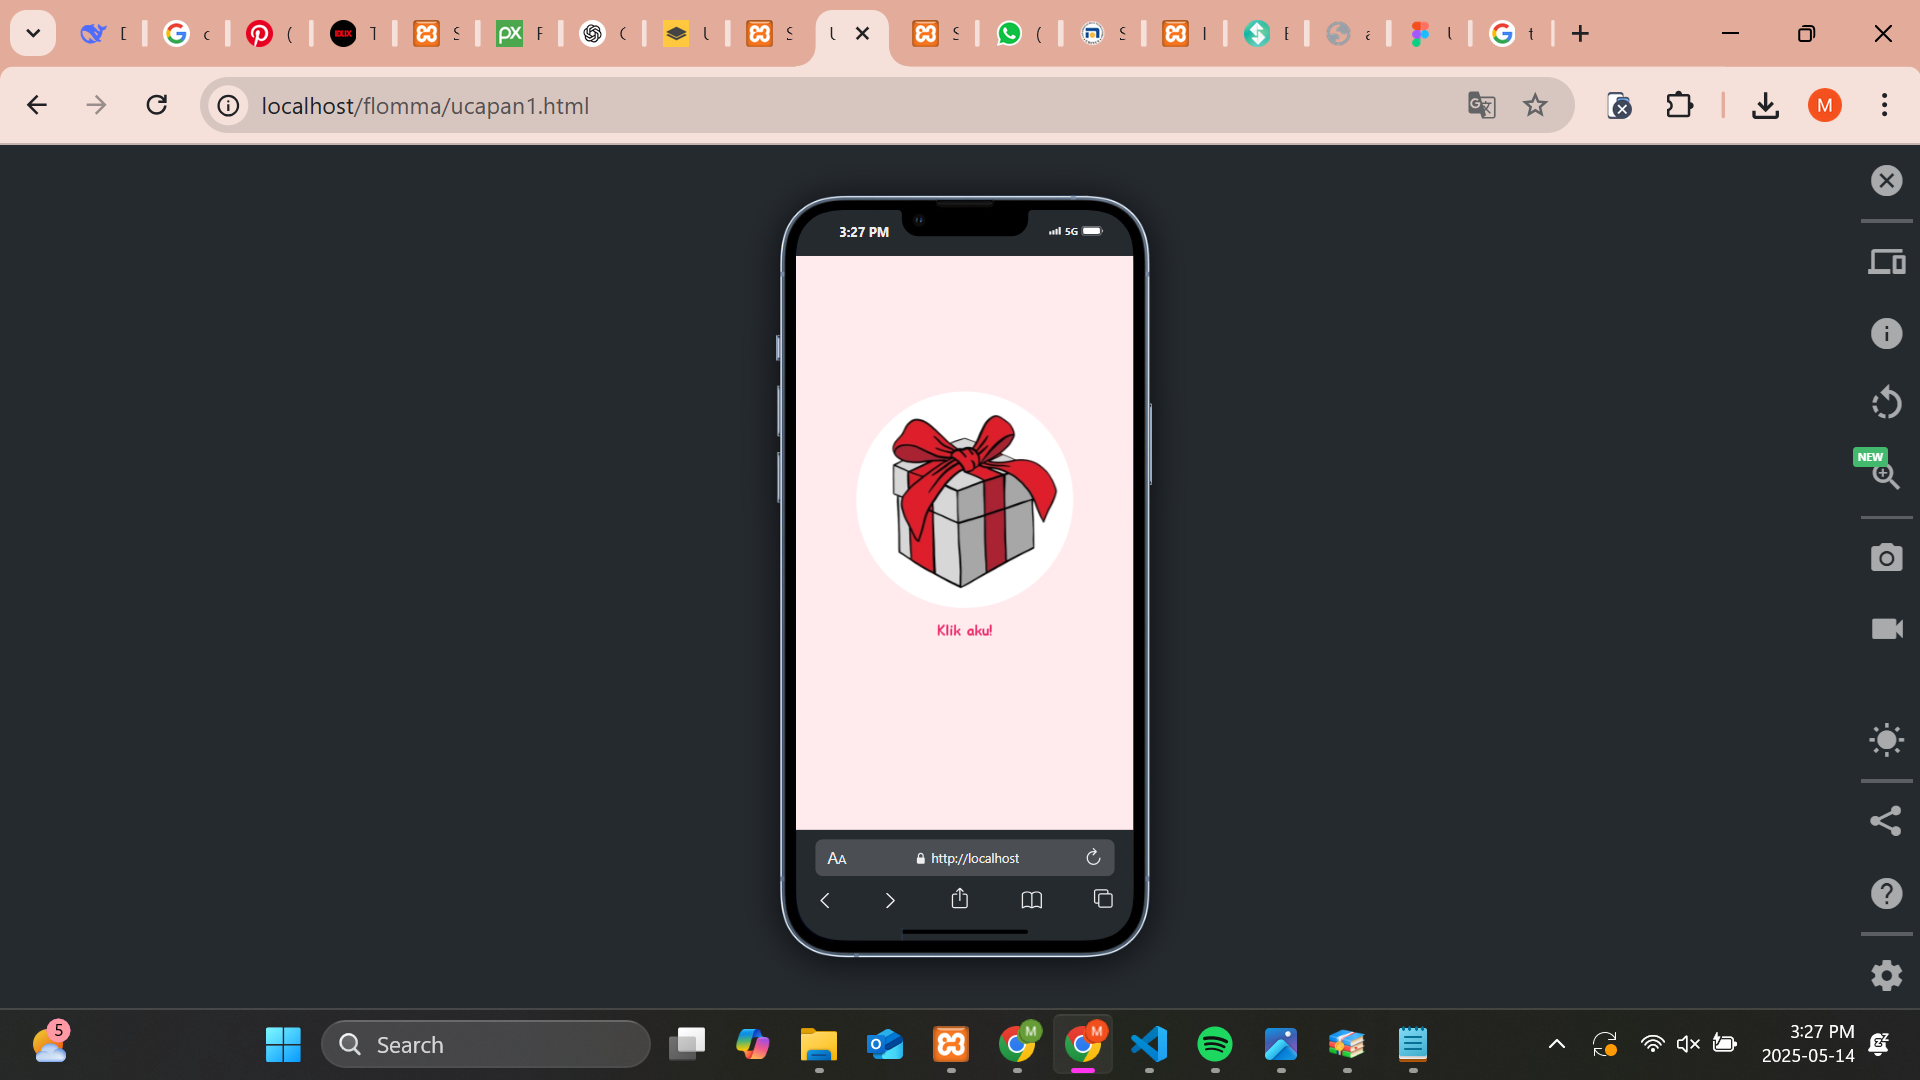
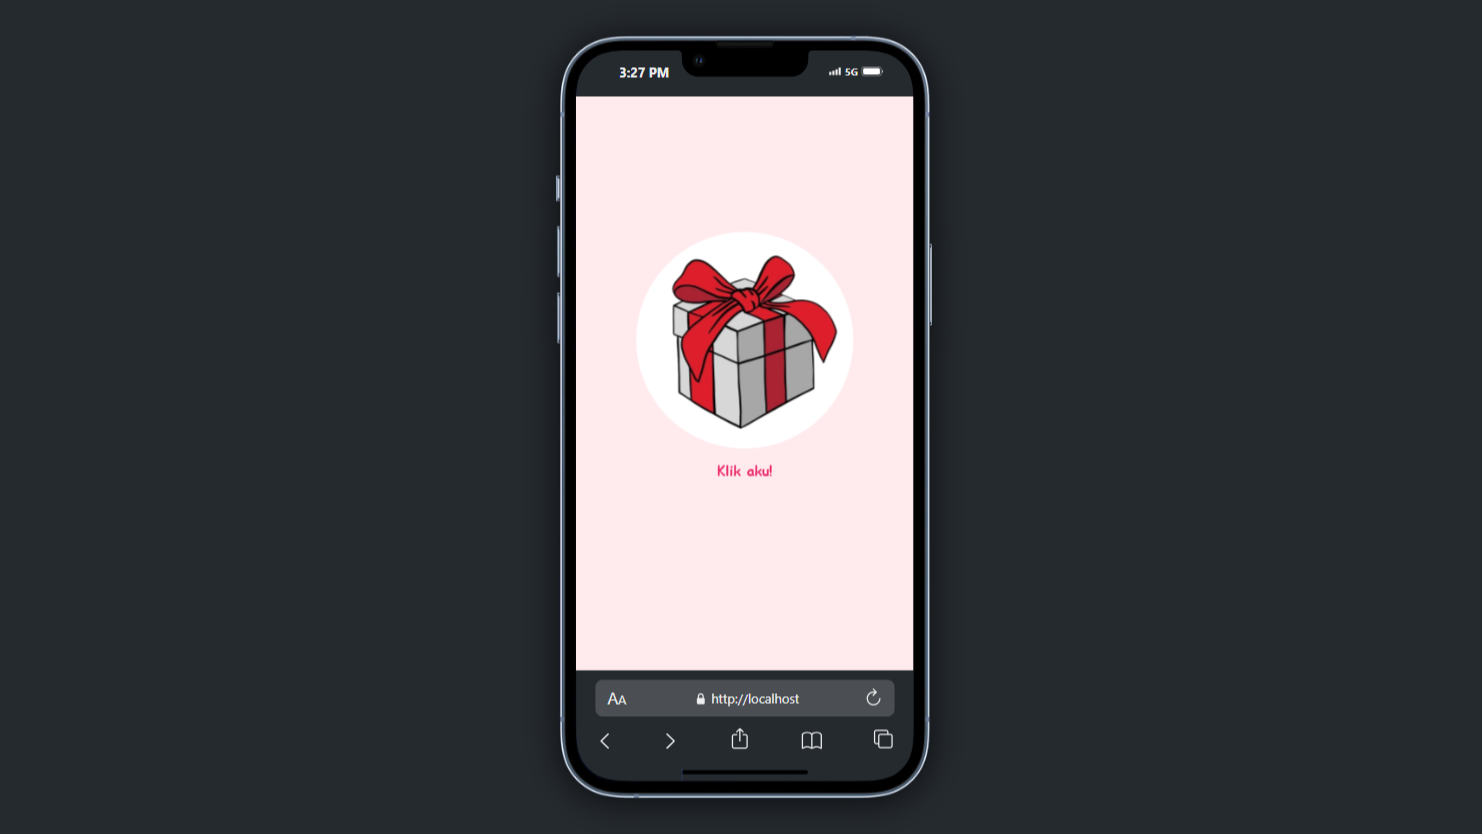
update font

diff --git a/gift.html b/gift.html
@@ -17,7 +17,7 @@
         }
         
         body {
-            font-family: 'Comic Sans MS', cursive, sans-serif;
+            font-family: 'Comic Sans MS', cursive;
             background-color: #ffebee;
             display: flex;
             flex-direction: column;
